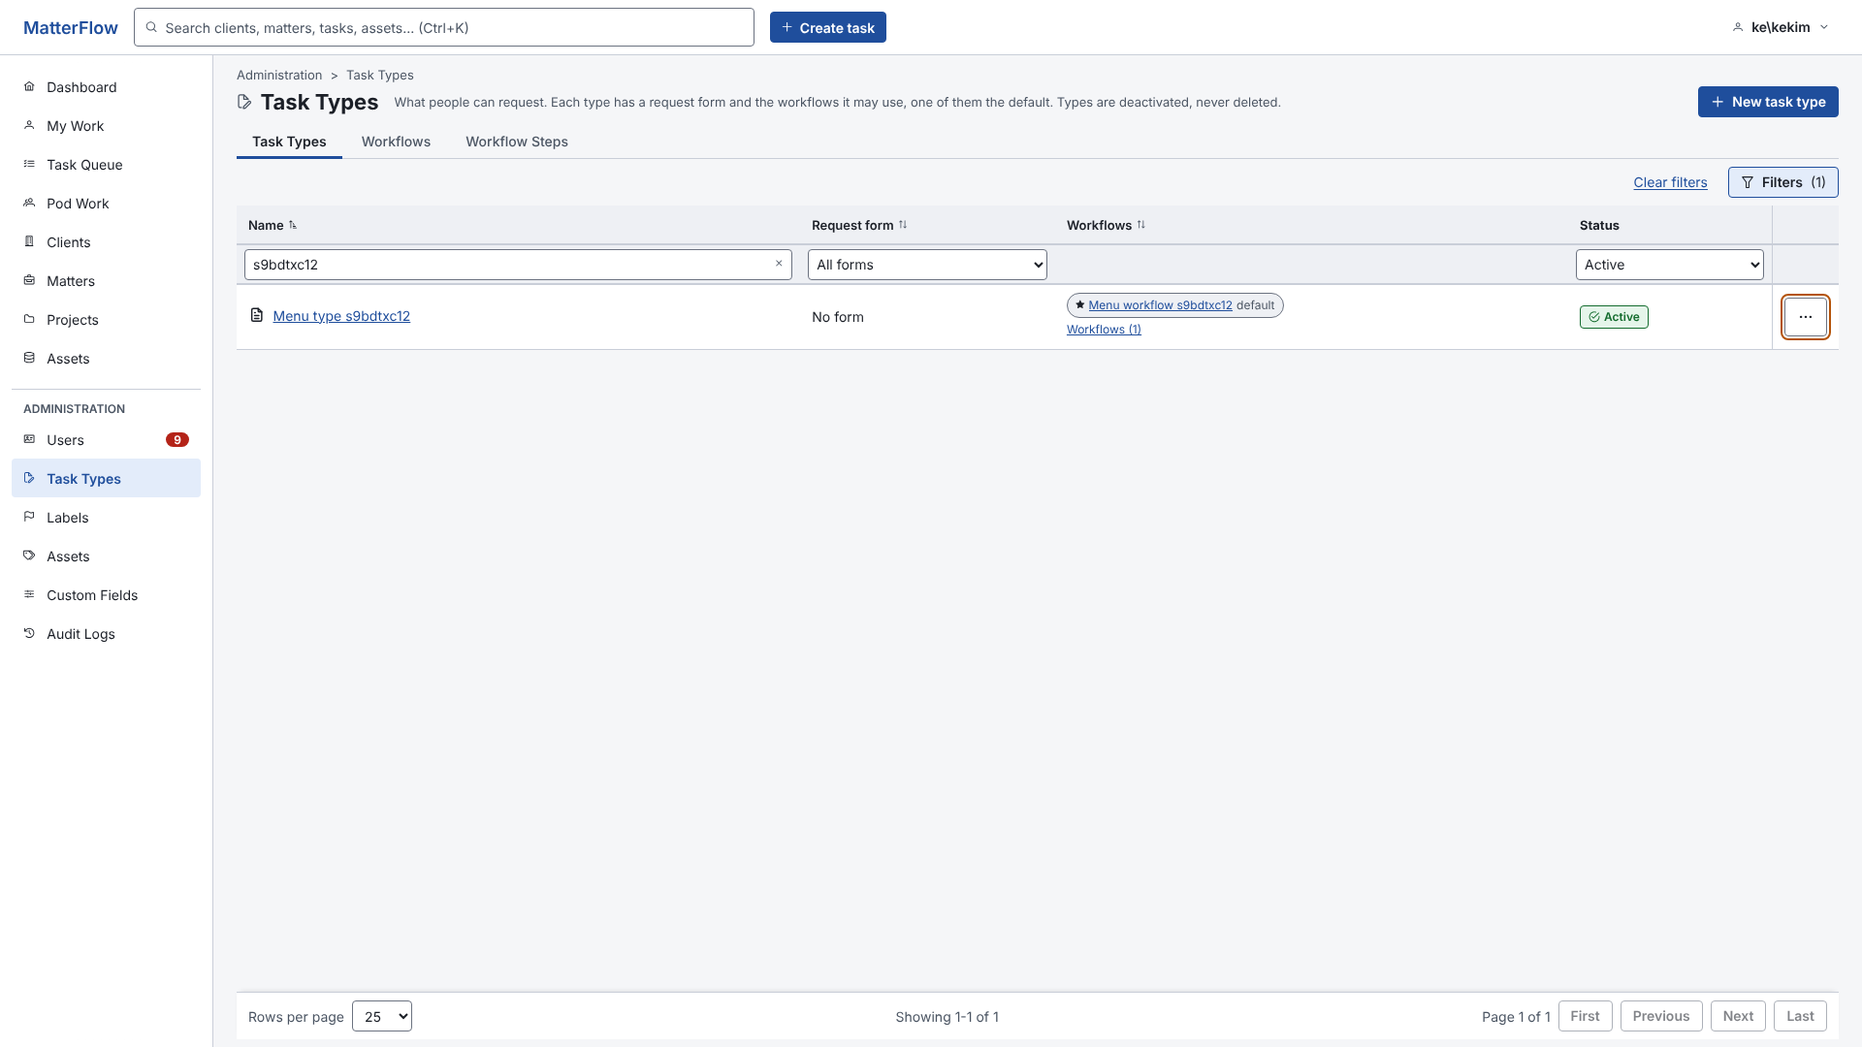
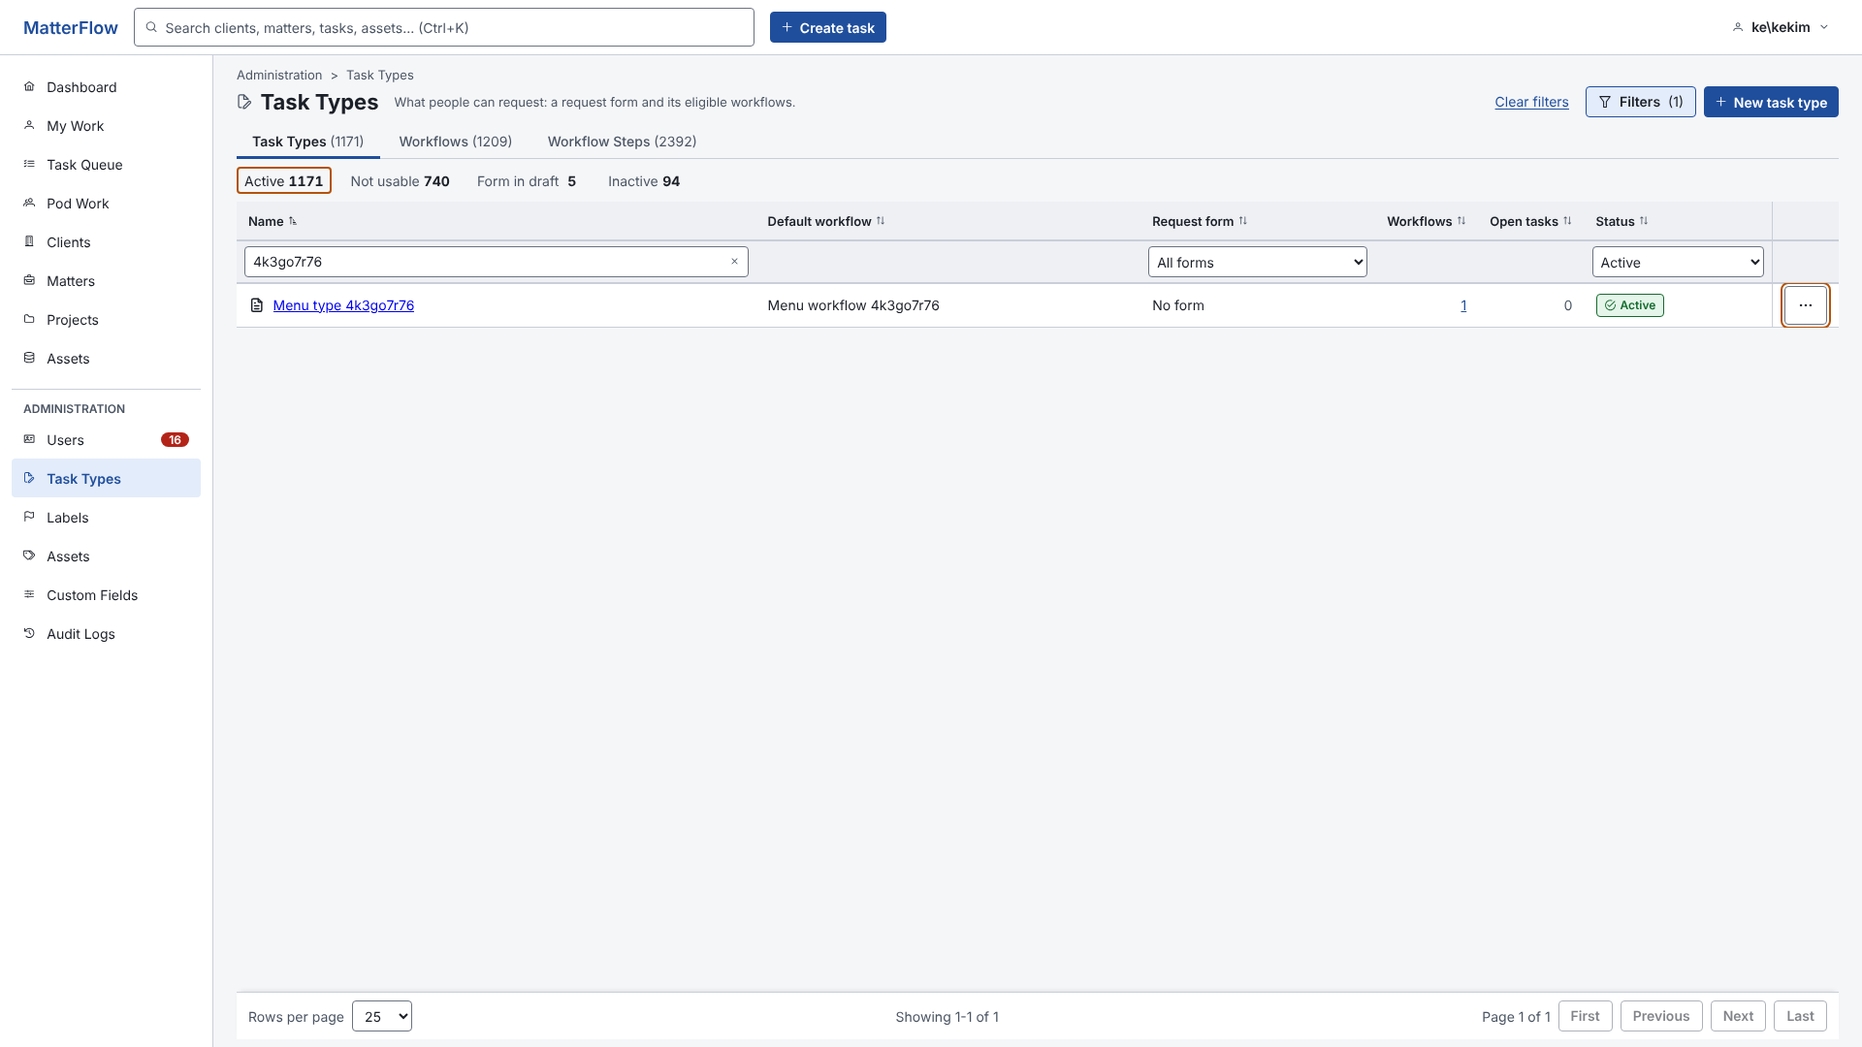
TY-A2 narrow windows cap the Name column so the filter row stays open, race-free list-return e2e, status lines and screenshots (#365, #354)
In plain words: at 768 px the Workflows list no longer grows wider than its frame when a name is long, so the filter row stays open. The two-deep focus tests wait for the page before clicking, and the delivery plan and screenshots are updated.

Claude-Session: https://claude.ai/code/session_01GjQ3L6gEego4PwsSfbngaa

diff --git a/frontend/e2e/tests/ty1-list-return.spec.ts b/frontend/e2e/tests/ty1-list-return.spec.ts
@@ -213,6 +213,7 @@ test.describe('Back and the breadcrumb keep the list view and the row focus (#35
     await page.goto(flowsUrl);
     const flowId = flows.ids[26];
     await rowLink(page, flowId).click();
+    await expect(page).toHaveURL(new RegExp(`/admin/workflows/${flowId}$`));
     await page.getByRole('button', { name: /Open draft v1/ }).click();
     await expect(page).toHaveURL(new RegExp(`/admin/workflows/${flowId}/versions/\\d+$`));
     await crumb(page, 'Workflows').click();
@@ -281,6 +282,7 @@ test.describe('Back and the breadcrumb keep the list view and the row focus (#35
     const flowsUrl = `/admin/workflows?name=${flows.token}&size=25&page=2`;
     await page.goto(flowsUrl);
     await rowLink(page, flows.ids[25]).click();
+    await expect(page).toHaveURL(new RegExp(`/admin/workflows/${flows.ids[25]}$`));
     await page.getByRole('link', { name: /Open draft v1/ }).click();
     await expect(page).toHaveURL(new RegExp(`/admin/workflows/${flows.ids[25]}/versions/\\d+$`));
     await crumb(page, 'Workflows').click();
@@ -289,12 +291,14 @@ test.describe('Back and the breadcrumb keep the list view and the row focus (#35
 
     // Browser Back twice does the same (it always did) and a reload in between is not a return.
     await rowLink(page, flows.ids[25]).click();
+    await expect(page).toHaveURL(new RegExp(`/admin/workflows/${flows.ids[25]}$`));
     await page.getByRole('link', { name: /Open draft v1/ }).click();
     await page.goBack();
     await page.goBack();
     expect(urlOf(page)).toBe(flowsUrl);
     await expect(rowLink(page, flows.ids[25])).toBeFocused();
     await rowLink(page, flows.ids[25]).click();
+    await expect(page).toHaveURL(new RegExp(`/admin/workflows/${flows.ids[25]}$`));
     await page.getByRole('link', { name: /Open draft v1/ }).click();
     await page.reload();
     await crumb(page, 'Workflows').click();

diff --git a/frontend/src/styles/_admin-lists.scss b/frontend/src/styles/_admin-lists.scss
@@ -55,6 +55,13 @@
   max-width: 25rem;
 }
 
+/* A narrow window keeps the grid inside its wrap (so the filter row can stay open): the Name column is capped lower. */
+@media (max-width: 899px) {
+  .mf-table-wrap table td.ad-name {
+    max-width: 16rem;
+  }
+}
+
 .mf-table-wrap table td.ad-spring {
   width: 100%;
   min-width: 240px;

diff --git a/docs/ux/task-types-review/delivery-plan.md b/docs/ux/task-types-review/delivery-plan.md
@@ -201,8 +201,11 @@ Contract e2e over the seeded data of the review at four sizes (axe 0 including `
 - WP-TY1 Foundations and bugs (2026-10-19, lane B, TY-B): #353, #359, #360, #361, #362 done and closed (commits in `git log --grep "TY-B"`); unit (admin, shared/ui, form page) and e2e `ty-record-states`, `ty-titles-crumbs`, `ty-form-pattern`, `ty-dialogs` green (axe 0 at 375/768/1366/1920, no sideways scroll, permission variants System Admin, TaskType.Manage only, Workflow.Manage only, Task.View only), regressions task-types-tabs, admin-form-designer-pages, workflow-steps, workflow-version, task-type-icons, detail-page-states, wp3-record-header, column-filters-admin, fixed-header, nav-phone green; initial bundle unchanged at 644.97 kB; screenshots `fixes/ty1-foundations/`. Known limits: the sticky footer "only when dirty" rule of #361 is not applied; `impactLine()` has no consumer yet (#379, #390, #400, #402, #406); `GET /workflows/{id}/versions/{vid}` needs Task.View on the server, so a Workflow.Manage-only person gets the 403 state on version pages (backend policy, not changed); `workflow-version-page.ts` touched only for the state wiring (record state, parent crumb, state title, quiet load). #354 (BUG-3) is lane A.
 - WP-TY1 lane A (2026-10-19, TY-A, commit 3908bde): #354 done (Back and the breadcrumb return to the exact list address and put focus on the name link of the row left, on Task Types, Workflows and Workflow Steps and their filtered views; new `features/admin/list-return.ts`: `AdminListLeave` puts the list address in router state `returnTo`, `ListReturn` reads it once when a record page opens and gives the crumb, Cancel and the links on to the version page and the designer page; a foreign address falls back to the plain list; the row menu entries leave the row like the name link; `restoreRowFocus` per list, heading when the row left the result; `page-header` now passes a crumb's `state` to its link; `drill.ts` unchanged, no new list id needed there); unit `list-return`, e2e `ty1-list-return` (Back, crumb, Cancel, version page and form page crumbs, filtered views, foreign address, axe 0 at four widths, permission variants) green twice; screenshots `fixes/ty1-foundations/steps-return-focus-*`; known limit: focus is restored for a crumb one step from the list (a crumb two record pages deep keeps the address but not the focus).
 - WP-TY2 Page shell, backend part (2026-10-19, lane D, TY-D1): #366 done (additive, no SQL; commit `git log --grep "TY-D1 #366"`). API shapes for lanes A and D (OpenAPI `contracts/openapi/v1.json`, client regenerated): `GET /api/v1/workflows` returns `{items, total, page, pageSize, summary}`; each item adds `hasDraft`, `versionCount`, `publishedAtUtc` and `stepCount` (latest publication: the published version, else the most recently retired one; null when never published), `taskTypeCount` (active Task Types only; `taskTypes` still names all); `summary` = `{total, active, inactive, published, notPublished, draftInProgress}` over the whole library whatever the filters (published and notPublished are counts of ACTIVE workflows, draftInProgress too); new sorts `publishedAtUtc`, `-publishedAtUtc` (never-published last in both directions), `taskTypeCount`, `-taskTypeCount`. `GET /api/v1/step-definitions` returns `{items, total, page, pageSize, summary}`; each item adds `publishedFormVersionId` and `draftFormFieldCount`; `summary` = `{total, active, inactive, notUsed, inputsInDraft}` (notUsed and inputsInDraft count active steps; inputsInDraft = an open input draft with at least one field). Both lists need `Workflow.Manage` only; 5 to 6 SQL statements whatever the page size. Tests: integration `AdminListFieldsApiTests` (7), `AdminListsPerformanceTests` / `AdminListsLargePerformanceTests`; the UI items #363, #364, #365, #367 to #370 are open.
+- WP-TY2 Page shell, frontend (2026-10-19, lane A, TY-A2, `git log --grep "TY-A2"`): #363, #365, #367, #368, #369, #370 done. Short descriptions; the filter row is open by default from 640 px and the Filters button sits in the page header (below 640 it is a sheet; at 768 the row stays open only while the grid fits, so the Name column is capped at 16rem below 900 px); one count per tab (`AdminCounts`, quiet requests) and the health strips on Task Types, Workflows (API `summary`) and Steps (the "Inputs in draft" chip is a plain count: the API has no filter for it, a follow-up `inputsDraft` filter would close it); the hidden-count line with Show all in the pager and a sortable Status (additive API sort values `status`/`-status`, no OpenAPI change); loading, error and empty states follow the grid-body pattern (skeleton with the table's columns, one error message with Retry, no second New button). Tests: unit admin and shared 1452 pass (full suite is flaky under load), integration 63 pass, e2e ty2-shell, ty2-states, ty2-strips (axe at 375/768/1366/1920, no page-level horizontal scroll, permission variants) and the regression list green. Initial bundle 647.85 kB raw (173.94 kB transfer). Screenshots: `fixes/ty2-shell/`.
 - WP-TY3 Lists on the grid contract (2026-10-19, lane A, TY-A, commits dd5bf77 #355, a0853e1 #356): #355 done (one `mf-action-menu` overflow per row in the last, sticky column of Task Types, Workflows and Workflow Steps: Edit form / Open draft vN / Edit inputs, then Deactivate or Activate with the confirm dialog; the menu is `floating` (placed against the window, flips up, closes on scroll or resize) so a scrolling table never clips it; the name is the only link; on a phone the first column fills the box so nothing is half hidden behind the button; Tab stops per row at 1366 on the review data: Task Types median 4 (max 7, was 6 to 7 plus chips; the chips stay until #371), Workflows 2, Steps median 3); #356 done (name clamped to two lines, one line above a one-line description, full text as tooltip; Steps: Title is the spring (min 240 px), Description from 1200 px up as one clipped line, two tag chips and "+n more", "Used in" is the number as the link with an `aria-label` "Used in 5 workflows"; every Workflows and Steps row is 44 px on the seeded long-name rows at 1366, 1920, 768 and 375; rows with several task type chips stay taller until #376); new global `styles/_admin-lists.scss` (no component style grew); tests: unit (action-menu floating, the three lists, list-return) and e2e `ty3-lists` (axe 0 at 1366/1920/768/375 with the menu open, no page-level sideways scroll, keyboard, Workflow.Manage-only, TaskType.Manage-only, Task.View-only) green twice, regressions `task-types-tabs`, `admin-form-designer-pages`, `workflow-steps`, `workflow-version`, `task-type-icons`, `column-filters-records`, `column-filters-admin`, `wp8-list-chrome`, `wp12-phone-cards`, `clients-keyboard`, `fixed-header` green; initial bundle 646.53 kB of 700 kB; screenshots `fixes/ty3-lists/`; known limits: a keyboard Tab onto the menu button on a phone scrolls the table sideways; #371, #374, #375, #376 follow in this lane. Open in WP-TY3: #371 and the rest, not started. Backend (lane D, TY-D1, commit `git log --grep "TY-D1 #372"`): #372 done (additive, no SQL, no index): `openTaskCount` on every item of `GET /api/v1/task-types`, on `GET /api/v1/task-types/{id}` and on the create and update replies = Tasks of the type that are open (New, In Progress, On Hold; the Task Queue definition) over every pod, Matter and Project; `null` (not 0) without `Task.View`; a type without open Tasks is 0; equals the total of `GET /api/v1/task-queue?type={id}&status=NEW&status=IN_PROGRESS&status=ON_HOLD` (the Task Queue parameter for the type filter is `type`, repeatable). New `sort` on the list (not paged): `name` (default), `-name`, `openTaskCount`, `-openTaskCount` (ties keep the name order). `lastUsedAt` is not provided. For TT7 the workflows that would lose their last task type are still derived by the UI from `taskTypes` / `taskTypeCount` of the workflows it loads. Tests: `TaskTypeOpenCountsApiTests` (5), `TaskTypeCountsPerformanceTests` and `TaskTypeCountsLargePerformanceTests` (3 statements for any number of types).
 - WP-TY4 Task Type record page (2026-10-20, lane B, TY-B2, commits `git log --grep "TY-B2"`): #380 to #386 done. Option A as decided: inline editing under `mf-record-header` (icon and name, **Active / Inactive / Not usable** badge, neutral for the derived states; actions Edit, Activity (`Audit.View`), the primary **Edit form**, overflow with Deactivate (the confirm uses `impactLine`: open tasks from `openTaskCount`, workflows left without an active type from `taskTypeCount`) or Activate; none on a new type); the Active checkbox is gone on an existing type and stays on create. Summary strip (`mf-work-strip`, new optional text `value` per item): Form, Workflows, Default workflow, Open tasks (a link to `/tasks?type={id}&status=NEW&status=IN_PROGRESS&status=ON_HOLD`, absent without `Task.View` because the API sends `null`) and Status. Tabs Overview | Workflows (n) | Request form (`mf-tabs`, new optional `disabledReason`: on create the Request form tab is `aria-disabled` with "Save the task type first"); `?tab=` is replaced, not added; **tab counts show active records** (the Workflows count is live with the edits, the strip shows the saved number). Each tab saves on its own: the footer (Save changes / Cancel, Create task type on a new type) shows only while the open tab has edits, one `PUT` carries the tabs that have edits and the saved values of the others; switching tabs, Edit form or leaving with edits asks first with **Save and leave** (`LeaveConfirmService`), and Leave drops the edits of the tab; Create saves everything and lands on `?tab=workflows`. Workflows tab (`task-type-workflows-tab.ts`): a table of the chosen workflows (name linked only with `Workflow.Manage`, published version, steps, **Default** radio as one Tab stop, **Remove** named "Remove <name>"; 44 px rows, cards on a phone), the first added becomes the default, removing the default moves it to the next row and says so, focus goes to the next Remove (else the search), and the "Add workflow" combobox (ARIA combobox pattern) lists published, active workflows first and the others disabled with "No published version" / "Inactive", hides the added ones, shows 8 at a time with "Showing 8 of n. Keep typing to narrow the list." (no scroll box inside the list; it sits above the table so nothing is covered). One neutral status note under the header names each reason with its fix (Open the form is a link; Add one and Activate it are actions); the Request form tab says `Published v1 - 3 fields - last published Oct 19, 2026`, `Draft v2 in progress`, `No form yet` or `Retired, no published version` with **Edit form** (**Create form** when there is none; the header primary always reads Edit form). Name and description have "n / 100" and "n / 1000" counters (`mf-char-counter`, announced politely from 90 and 900); the H1 clamp and the 40-character crumb come from `mf-record-header`. Backend: none (uses `openTaskCount` of #372); the Request form tab reads field count and last published date from `FormsClient` versions through `FormDesignerApi.listVersions` (two optional fields added to the designer's version summary). No keyboard shortcut was added or changed. Tests: unit `task-type-edit-page`, `task-type-record`, `char-counter`, `tabs`, `record-header`, `record-skeleton`, `work-strip`, `http-form-designer-api`; e2e `ty4-task-type` (29 tests: five widths with axe 0 incl. menu, drawer, dialogs and picker open, no page-level sideways scroll, keyboard-only add / default / remove, 33 workflows with long names, states active / inactive / not usable / draft form, dirty-leave flows, permission variants) green twice; regressions `task-types-tabs`, `ty-record-states`, `ty-titles-crumbs`, `ty-form-pattern`, `ty-dialogs`, `ty3-lists`, `ty1-list-return`, `admin-form-designer-pages`, `task-type-icons`, `workflow-steps`, `workflow-version`, `fixed-header`, `wp3-record-header`, `ty6-*`, `ty8-designer-tabs`, `ux-round-4` green (older specs that clicked the Active checkbox, the old Save wrapper, "Open the form designer" or counted crumb text were adapted, not weakened); initial bundle 646.90 kB of 700 kB (unchanged, the page and its components are lazy); screenshots `fixes/ty4-task-type/`. Known limits: `GET /api/v1/task-types/{id}` needs `Task.View` (existing policy), so a person with `TaskType.Manage` alone gets the "no access" state on the record page (for WP-TY10, #416); without `Workflow.Manage` the workflow list is not available, so names are "Workflow n", they are not links and Add workflow is replaced by a sentence (Remove and Default still work); the Task Type page has no Cancel until a tab has edits (`ty1-list-return` Cancel step skips task types); the sticky footer now follows the "only when dirty" rule of #361 on this page.
+- WP-TY3 Lists on the grid contract, second batch (2026-10-19, lane A, TY-A2, `git log --grep "TY-A2"`): #364, #371, #373, #374, #375, #376, #377, #378, #379 done, plus focus restore two pages deep (list, Task Type or Workflow page, form designer or version page) in `drill.ts` and `list-return.ts` (additive `keepRow` state; Clients and My Work unchanged; e2e in `ty1-list-return`). Phone cards below 640 px on the three lists; optional columns drop by width (Task Types: Open tasks below 1280, Workflows below 1100, Request form below 900; Workflows: Last published below 1280, Task types below 1100, Steps below 900; Steps: Description 1600, Tags 1180, Inputs 1024). Open tasks column (hidden without Task.View) links to the Task Queue filtered by `type=<id>`; Draft badge is a link to the draft; the deactivate confirm names the open tasks and the workflows losing their last task type. Limits: Steps shows "Published" rather than "n fields"; Steps Description threshold moved from 1200 to 1600 px. Screenshots: `fixes/ty3-lists/`. #366, #372, #391 are TY-D1's.
+- WP-TY4 Task Type record page: not started.
 - WP-TY5 Workflow record page, backend part (2026-10-19, lane D, TY-D1, commit `git log --grep "TY-D1 #391"`): #391 done (additive, no SQL, no index): each version in `GET /api/v1/workflows/{id}` (`versions[]`) and in `GET /api/v1/workflows/{id}/versions/{versionId}` (`version`), and in the create-draft, save, publish and retire replies, adds `openTaskCount` (open Tasks running on that version: New, In Progress, On Hold; Completed and Cancelled not counted; a draft is 0; `null`/undefined without `Task.View`), `createdByUserId` and `createdByName` (`createdAtUtc` was already there). The versions of one workflow add up to `GET /api/v1/task-queue?workflow={id}&status=NEW&status=IN_PROGRESS&status=ON_HOLD` (no per-version queue filter exists). The workflow summary also carries the #366 fields (`hasDraft`, `versionCount`, `publishedAtUtc`, `stepCount`, `taskTypeCount`). Tests: `WorkflowVersionOpenCountsApiTests` (5, including the same number of statements for 3 and 40 versions). The UI part of WP-TY5 (#387 to #390, #392) is open.
 - WP-TY5 Workflow record page, UI part (2026-10-20, lane D, TY-W, commits `git log --grep "TY-W Workflow record page"`): #387, #388, #389, #390 and #392 done. An existing workflow is a record page (the create form is unchanged): `mf-record-header` kind `workflow` (name clamped as the other records, crumb cut at 40 characters, breadcrumb Administration > Task Types > Workflows > name), the Active badge in the title and the other state badges (Published vN or Not published, Draft vN in progress; neutral and amber, never red) on their own wrapping line (new `[mfBadges]` slot of the header), Edit (focus to the name), Activity (`Audit.View`), one primary (Open draft vN when a draft exists, else Create new draft from the published version; never both) and an overflow with Deactivate or Activate; the summary strip (`mf-work-strip` with the `value` text of #380: Published, Draft, Steps, Task types = active ones, Open tasks of the published version from `openTaskCount`, a link into the Task Queue only when every open task of the workflow runs on that version, absent without `Task.View`); tabs Overview (name, description, read-only Status and Execution mode) | Versions (n = all versions) | Task types (n = active ones), `?tab=` replaced not added, the document title is `Name: Tab`, a tab with edits asks Stay / Leave / Save and leave; each tab saves on its own. The status checkbox is gone on an existing workflow. Task types tab (`workflow-task-types-tab.ts`, no new request, uses `taskTypes` of `GET /workflows/{id}`): rows with the Default workflow marker and Active or Inactive (active first), names are links only with `TaskType.Manage`, "No task type uses this workflow." when none. Deactivate (`impactLine('deactivateWorkflow')`): "n task types lose this workflow. m open tasks keep running on it." and the names (8, then "and n more"); Activate has no dialog. Versions tab (`workflow-versions-tab.ts`): Version link (+ Current), Status, Mode, Steps, Created (date, instant as tooltip), By, Tasks (the API count; the column is left out when the API sent none, a draft shows its 0), row overflow (Open; Create draft from this version, disabled with its reason while a draft exists and then Open draft vN is offered; Retire for the published version), 44 px rows, cards below 640 px. Retire from a row opens the same dialog as the version page (below, #400). No API change, no shortcut added or changed. Tests: unit `workflow-record.spec.ts` (helpers, page, tabs, dialogs, guard), `record-header.spec.ts` (badges line), `dialog-copy.spec.ts`, `workflow-impact.spec.ts`; e2e `ty5-workflow` (header, strip equal to the API, tabs, 22 task types with long names, 150-character name, draft / published / retired / not published states, versions table equal to the API, dirty guard, keyboard, axe 0 at 375/768/1024/1366/1920 with menus and dialogs open, no sideways scroll, Workflow.Manage only / with Task.View / with TaskType.Manage / TaskType.Manage only / Task.View only); adapted `task-types-tabs`, `ty-dialogs`, `ty-titles-crumbs`, `ty1-list-return`, `ty6-version-leave`, `ty6-version-bar`. Deviations: Retire stays enabled while a draft exists (the server allows it, and decision (PM): the same action on the row and on the version page); "has no other workflow" in the Deactivate sentence is not derived (needs each task type's other workflows, read only on Retire). Initial bundle 646.90 kB (unchanged). Screenshots `fixes/ty5-workflow/`.
 - WP-TY6 Version editor (2026-10-19, lane C): #357 done (sticky action bar: new `workflow-version-bar.ts`, the page's header actions moved into it; Save draft, Publish..., overflow with Discard draft; read-only: Create new draft or Open draft vN, overflow with Retire version; no shortcut added or changed); #358 done (new `shared/ui/scroll-region.ts` directive: a box that scrolls becomes a named focusable region, "Changes in this version", only while it overflows; `mf-confirm-dialog` gets a `scrollLabel` input used by the version publish dialog, its body max-height now leaves room so the dialog itself no longer scrolls; the form publish dialog's list of changes is its own bounded region); #393 to #398 and #401 done (TY-C2, below); #399, #400, #402 open (they wait for #389 and #391). Tests: unit `workflow-version-bar.spec.ts`, `scroll-region.spec.ts`, e2e `ty6-version-bar.spec.ts` and `ty6-publish-dialog.spec.ts` (four widths, axe, keyboard, states, permissions, 40-change and 80-field diffs); initial bundle 644.97 kB unchanged; screenshots `fixes/ty6-version/`; known limits: a Workflow.Manage-only user gets the load error on a version (the version endpoint also needs Task.View; for WP-TY10).
